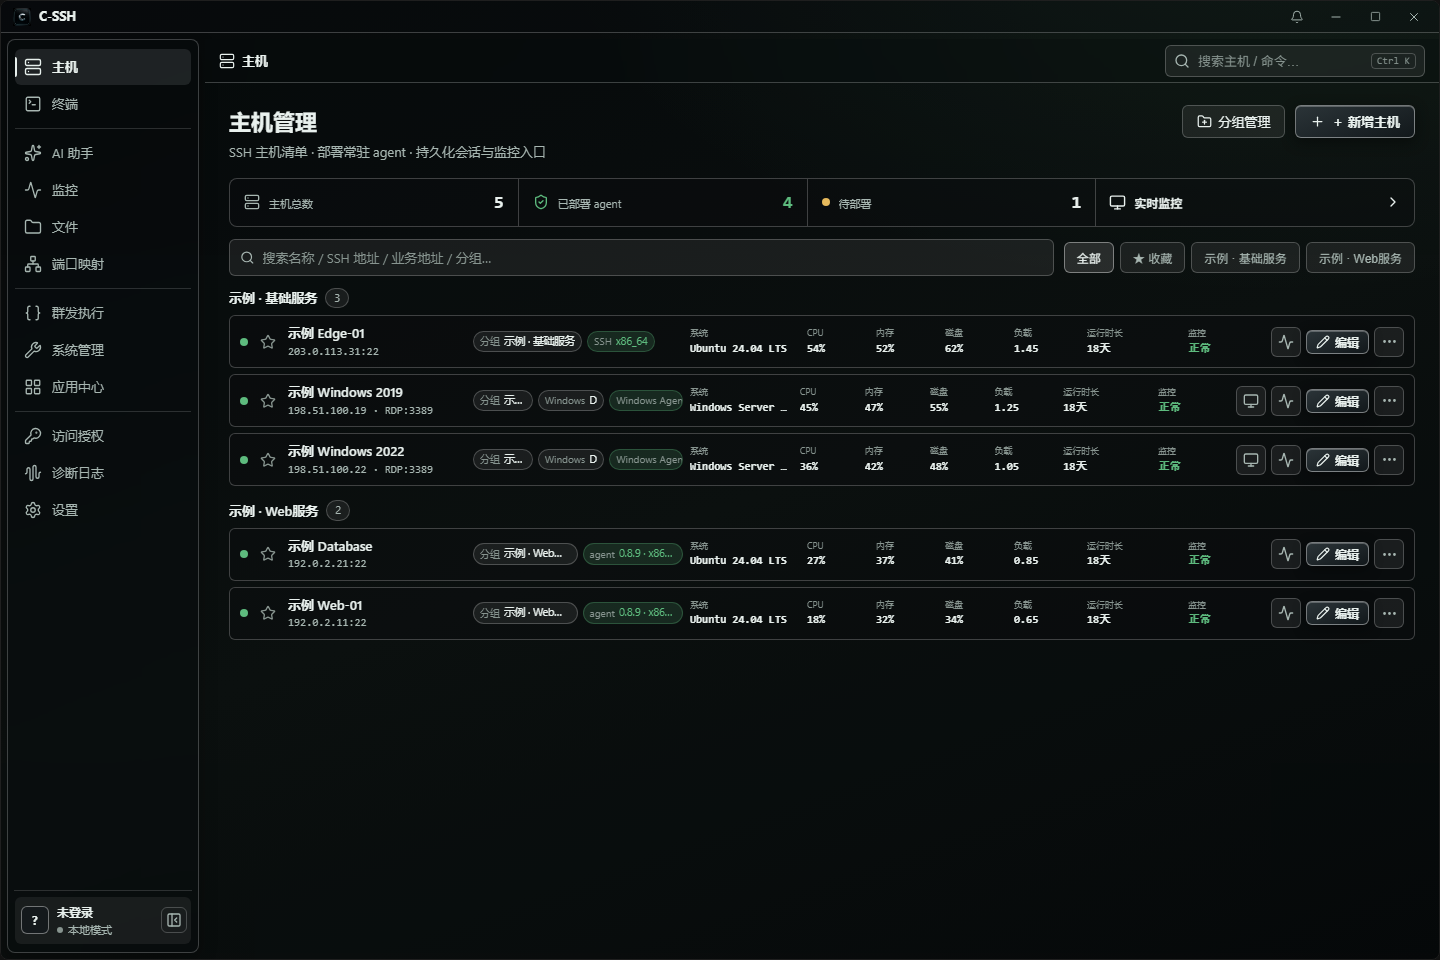
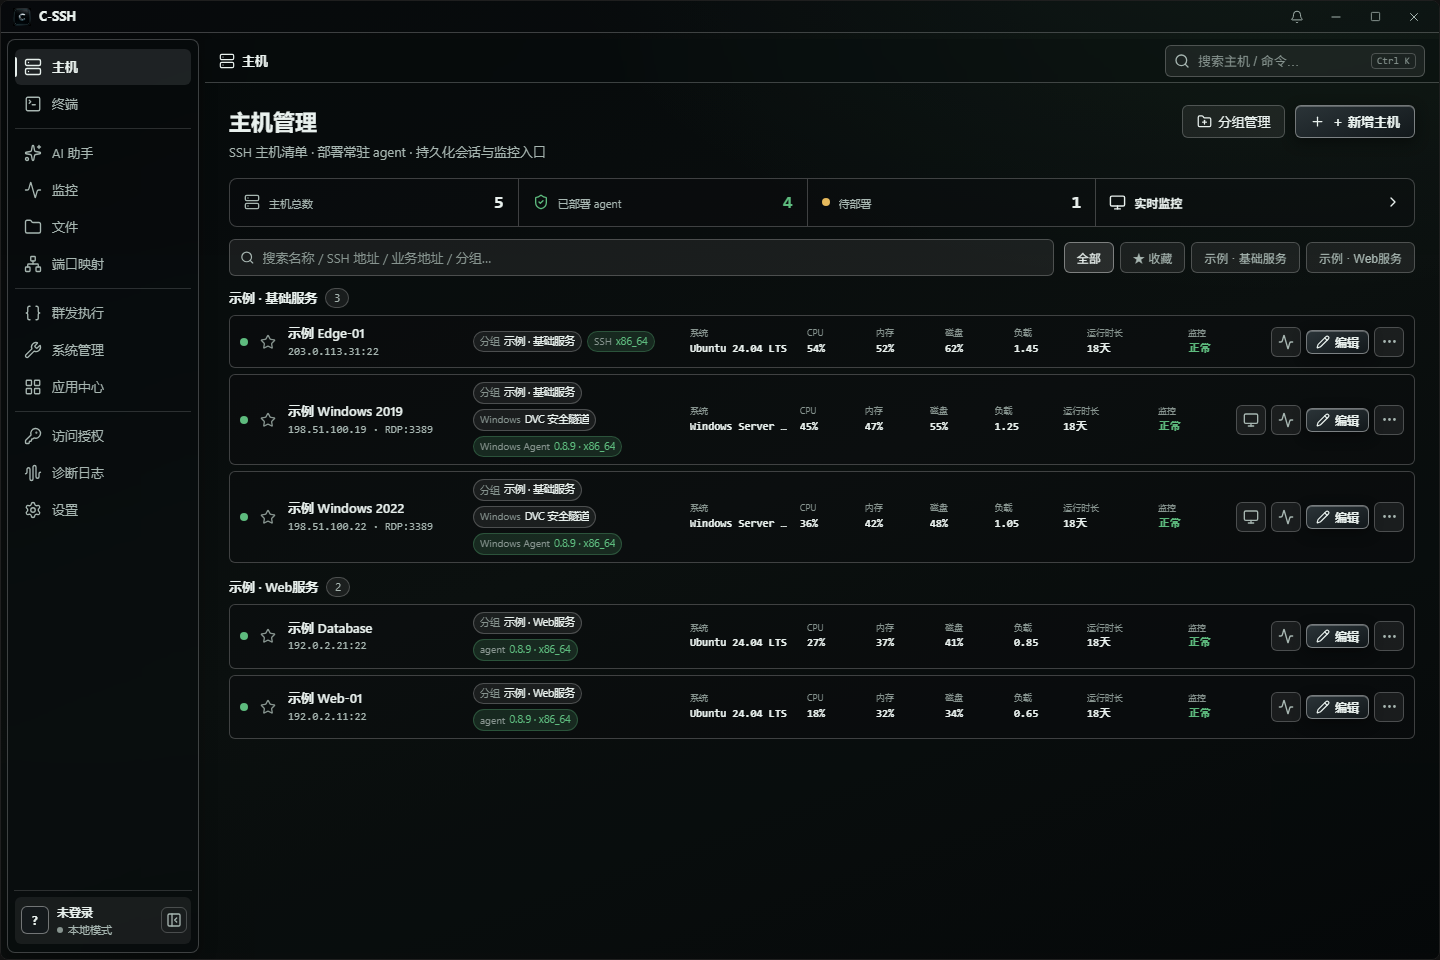
docs: refresh Agent version and account overview screenshots

diff --git a/screenshots/README.md b/screenshots/README.md
@@ -4,12 +4,12 @@
 
 | 平台 / Platform | 图片 / Screens | 内容 / Coverage |
 |---|---:|---|
-| [Windows](WINDOWS.md) | 30 | 主机、安装、RDP入口、终端、文件、监控、AI、端口映射、群发、系统、代理、Cloud、设置 / Hosts, installation, RDP entry, terminals, files, monitoring, AI, forwarding, broadcast, system, proxies, Cloud and settings |
+| [Windows](WINDOWS.md) | 31 | 主机、安装、RDP入口、终端、文件、监控、AI、端口映射、群发、系统、代理、Cloud、设置 / Hosts, installation, RDP entry, terminals, files, monitoring, AI, forwarding, broadcast, system, proxies, Cloud and settings |
 | [Android](ANDROID.md) | 24 | 主机、安装、终端、文件、监控、AI与历史、账号、同步、设备、数据保护、设置 / Hosts, installation, terminals, files, monitoring, AI and history, account, sync, devices, data protection and settings |
 
-共54张当前界面图，使用离线示例数据。安装图复用已保存的PC／MuMu界面；其它图片由当前产品前端在后台浏览器中渲染。图片不是新一轮服务器或物理手机验收，程序仍未上传。
+共55张当前界面图，使用离线示例数据。安装图复用已保存的PC／MuMu界面；其它图片由当前产品前端在后台浏览器中渲染。图片不是新一轮服务器或物理手机验收，程序仍未上传。
 
-54 current UI images with offline sample data. Installation screens reuse saved PC/MuMu captures; other screens render the current product frontend in a background browser. They are not new server or physical-device acceptance results. Binaries remain unpublished.
+55 current UI images with offline sample data. Installation screens reuse saved PC/MuMu captures; other screens render the current product frontend in a background browser. They are not new server or physical-device acceptance results. Binaries remain unpublished.
 
 原根目录图片链接也已替换为当前界面；旧图保留在Git历史中。QQ群二维码保持。
 

diff --git a/screenshots/WINDOWS.md b/screenshots/WINDOWS.md
@@ -2,9 +2,9 @@
 
 [返回首页 / Home](../README.md) · [图集目录 / Index](README.md)
 
-共 30 张。当前 0.8.9 前端的离线示例界面，使用示例主机、RFC 5737 地址和 example.com；没有连接服务器、Cloud 或 AI provider。长页面按实际滚动位置展示。
+共 31 张。当前 0.8.9 前端的离线示例界面，使用示例主机、RFC 5737 地址和 example.com；没有连接服务器、Cloud 或 AI provider。长页面按实际滚动位置展示。
 
-30 screens from the current 0.8.9 frontend with offline sample data. No server, Cloud or AI-provider connection was made. Long pages are shown at their captured scroll positions.
+31 screens from the current 0.8.9 frontend with offline sample data. No server, Cloud or AI-provider connection was made. Long pages are shown at their captured scroll positions.
 
 安装三张图复用 2026-09-13 的PC隔离窗口产品界面；进度图为状态回放。其余图为后台浏览器渲染，不是原生安装、真机或业务链验收证据。0.8.9 程序尚未上传。
 
@@ -129,3 +129,7 @@ The three installation images reuse September 13 product UI captures; progress i
 ## 30 · 版本缓存故障时继续本地使用 / Local use during a version-cache failure
 
 <a href="v0.8.9/windows-local-mode.png"><img width="1080" src="v0.8.9/windows-local-mode.png" alt="C-SSH 0.8.9 Local use during a version-cache failure" /></a>
+
+## 31 · 账号概览与数据保护状态 / Account overview and data protection
+
+<a href="v0.8.9/windows-account-overview.png"><img width="1080" src="v0.8.9/windows-account-overview.png" alt="C-SSH 0.8.9 account overview with translated protection status" /></a>

diff --git a/README_EN.md b/README_EN.md
@@ -16,7 +16,7 @@ Server operations on Windows and Android: terminals, remote desktop, monitoring,
 
 ## Interface Gallery
 
-**54 current screens:** [Windows · 30 screens](screenshots/WINDOWS.md) · [Android · 24 screens](screenshots/ANDROID.md) · [Gallery index](screenshots/README.md).
+**55 current screens:** [Windows · 31 screens](screenshots/WINDOWS.md) · [Android · 24 screens](screenshots/ANDROID.md) · [Gallery index](screenshots/README.md).
 
 Covers hosts, automatic/manual installation, RDP entry, terminals, files, monitoring, all three AI scopes, proxy profiles, account/sync, settings and more. The older v0.7.5 images have been replaced.
 

diff --git a/CHANGELOG_EN.md b/CHANGELOG_EN.md
@@ -17,6 +17,7 @@ This update publishes documentation and screenshots only. No new binaries, exist
 
 ### Fixed
 
+- Windows Agent labels now show the authenticated software version, with an explicit unknown state; account overview translations are complete across both clients and nine languages.
 - Version-cache failures no longer block the entire local interface; known mandatory-update or disabled-version decisions remain effective.
 - Fixed Android database path inconsistency, with real legacy-database migration and original-configuration retention verified.
 - Fixed installation subtitles, repeated password requests and Windows disk/network metrics.

diff --git a/README.md b/README.md
@@ -16,7 +16,7 @@ Windows 与 Android 上的服务器运维工具：终端、远程桌面、监控
 
 ## 完整界面图集
 
-**共54张当前界面：**[Windows · 30张](screenshots/WINDOWS.md) · [Android · 24张](screenshots/ANDROID.md) · [图集目录](screenshots/README.md)。
+**共55张当前界面：**[Windows · 31张](screenshots/WINDOWS.md) · [Android · 24张](screenshots/ANDROID.md) · [图集目录](screenshots/README.md)。
 
 覆盖主机、自动／手动安装、RDP入口、终端、文件、监控、AI三作用域、代理线路、账号／同步、设置等主要页面；原v0.7.5旧图已替换。
 

diff --git a/CHANGELOG.md b/CHANGELOG.md
@@ -17,6 +17,7 @@
 
 ### 修复
 
+- Windows Agent显示真实认证软件版本，未知版本明确提示；两端九语言账号概览状态文案补齐。
 - 版本缓存故障不再全屏封锁本地界面，保留已知强制更新／停用决策。
 - 修复 Android 数据库路径不一致，并验证真实旧库迁移与原配置保持。
 - 修复安装副标题、密码重复输入及 Windows 磁盘／网络指标问题。
